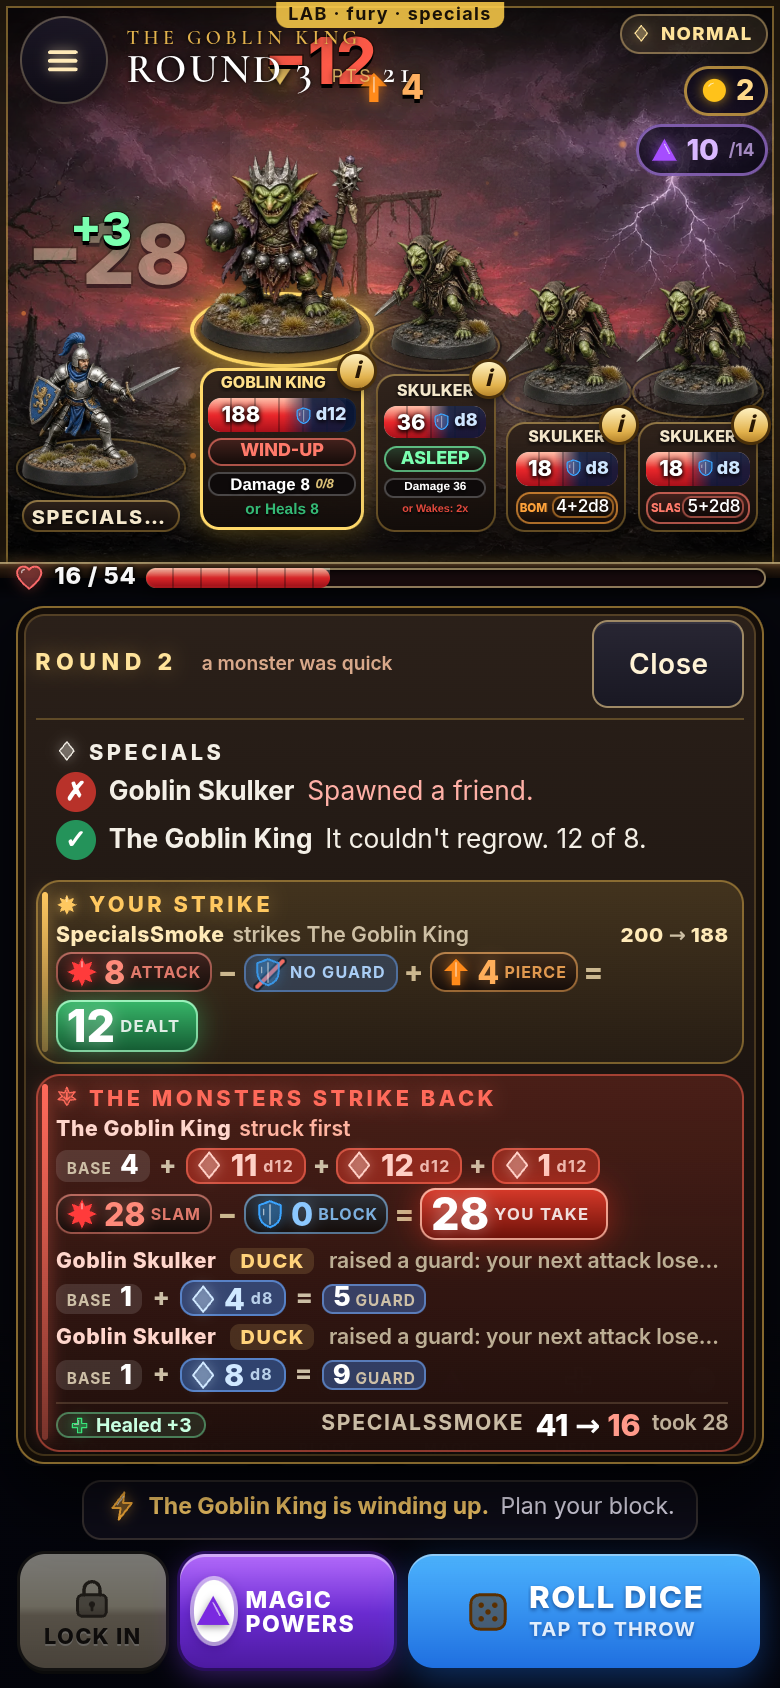
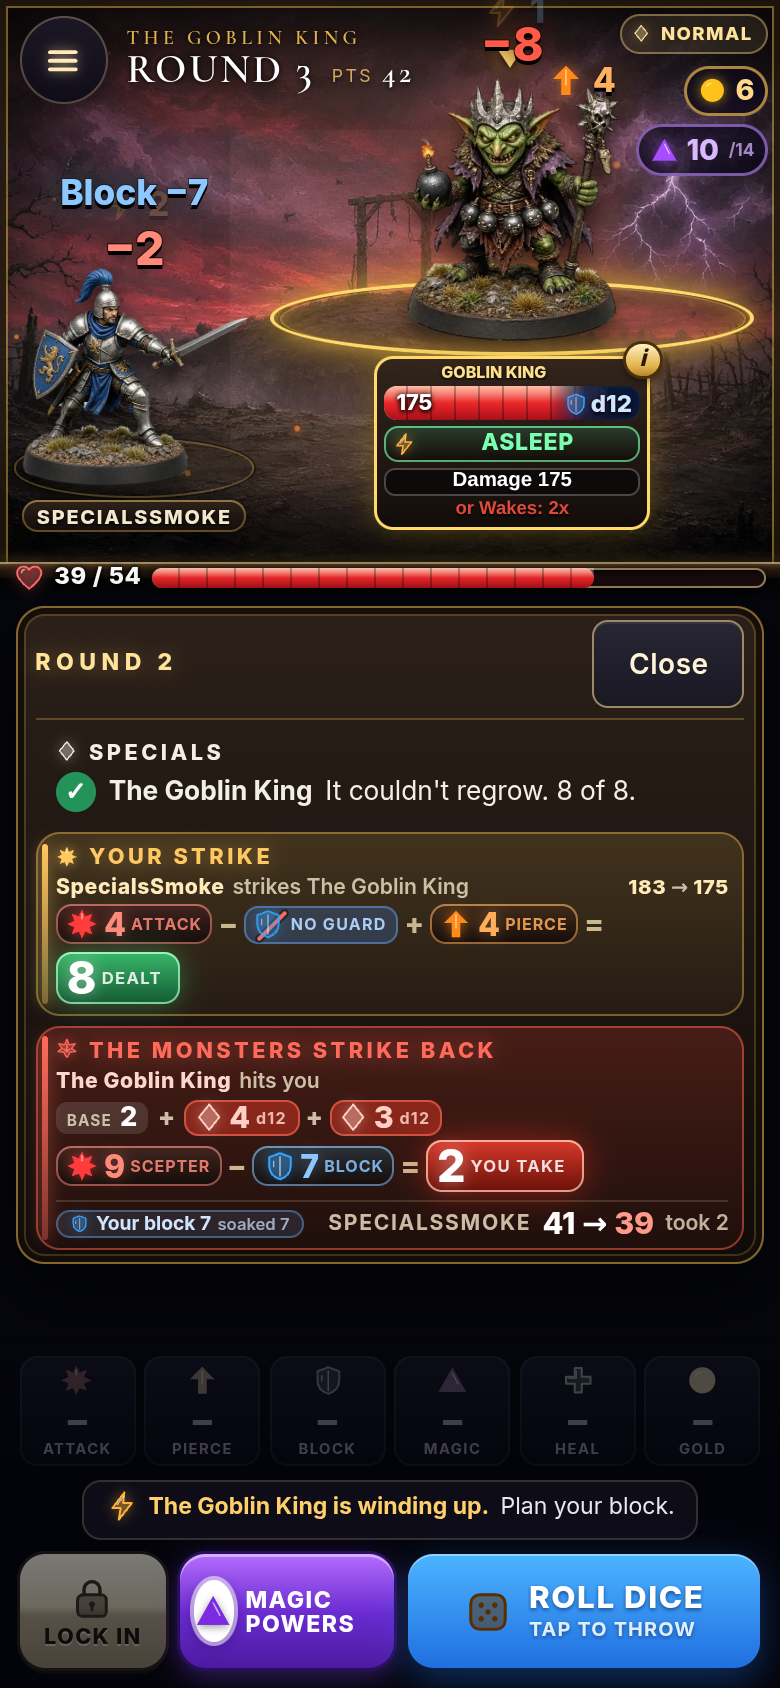
T24: Monster Specials live on main (build 20261102sp3); board note

diff --git a/docs/team/BOARD.md b/docs/team/BOARD.md
@@ -262,7 +262,7 @@ All one-offs above are 25, 50, 100 or 200: Talent One 25, weapon hand 50, Talent
 | T21 | Urgent live playtest | Implementation lead (Claude) | DELIVERED to main, build 20261025t21a (Director: review [results](tasks/T21-results.md), then DONE or follow-ups) | Two-player Normal defeat at Act I step 2, online cards4, report mvo829c812sx. Dav's Bow confirmed equipped but inactive; Dave says both Rangers lacked bows. Round 3 all enemies act first: JP takes 43, Dav 22. Slow reward handoff also reported. [Evidence and approved starter rule](tasks/T21-two-player-playtest.md). **Dave now authorizes both top weapon dice active from the start for EVERY class**, Bronze left class weapon plus right shield; Ranger exception Bronze Arrows + Bow. Keep existing class shield types. T17 mockups remain separate. | Claude: urgent before experimental work. Implement two active d4 starter weapon dice for all classes, remove NE starter unlock charge, preserve existing heroes/gear with idempotent authoritative migration; new Bard gets right Round Shield, Ranger Arrows NW/Bow NE. Fix reward-turn recovery. Audit early two-player scaling and online card coverage; inspect dnull locked-slot export, missing fatal-round totals, empty enemiesLeft on defeat and share prefix. Compare corrected starters before any monster nerf. Checked starter/reward/report fixes may deploy under standing authorization; post build and tests. No hero reset.  **Phone UI follow-up:** make Heart current face, both destination buttons, actual cost/used state and Close visible together without inner scrolling. Full brief and screenshot observations in T21. Verify actual online paths, not solo-only. |
 | T22 | High | Claude: replay/logic. Grok: active visuals. Director: review | READY (replay investigation; visuals already active per Dave) | [Coordination and four-screenshot review](tasks/T22-attack-feedback-and-coordination.md). Dave wants each hero's visible hit and individual monster HP change. Source confirms separate strikes and a shared spent monster block pool; replay cause not reproduced. **Dave reports Grok is actively doing the tilted board, helmet options and new Magic screen**, alongside card work. | Grok: list exact files/branch/head and deliver screenshots; use existing Dave Magic screenshot and T21 before/after evidence, no repeat upload needed. Claude: avoid Grok's active visual/card files; investigate per-hero replay/HP/block feedback in non-overlapping files first. Coordinate handoff before shared Magic/battle file edits. Grok hands off a commit; Claude reruns integration tests without another generic go. Current-rule visuals may ship checked; T17 unresolved mechanics stay isolated. |
 | T23 | High | Director: implementation, tests and evidence; Grok: existing visual direction | REVIEW: isolated candidate in draft PR #50, not live | Rank 2 Act II/200G; rank 3 Act III/300G additional; per-hero boosts, saves, camp authority and duplicate protection implemented on current main. 449 tests pass, 864 diagnostic fights. | Director retains rendering and economy/sustain review before activation. Grok/Claude have no assignment on this candidate. |
-| T24 | Next | Claude (engine) + Grok (visuals); Dave decides | IN ?lab PREVIEW (build 20261102sp1), off live | Monster Specials first set: [tasks/T24-monster-specials.md](tasks/T24-monster-specials.md) | Build behind a switch when Dave says go |
+| T24 | Next | Claude (engine) + Grok (visuals); Dave decides | LIVE (build 20261102sp3); Grok polishing screens | Monster Specials first set: [tasks/T24-monster-specials.md](tasks/T24-monster-specials.md) | Build behind a switch when Dave says go |
 
 ## Previews on main (preview-only, not releases)
 The game at the site root is now build 20261024report6 (it was 20261023road until T18 and T10 were merged on 24 Oct). Each preview has its own saves and no cloud; both share one preview save space on a phone.
@@ -908,3 +908,5 @@ From Grok Bot: 2 November 2026, 9:37 AM CT. **RELEASED** T24 screens (e20deb2, b
 2 November 2026, Claude: **T24 Monster Specials engine IN and connected to Grok's screens, build 20261102sp1.** Off at the live root; **on in the `?lab` preview** (the lab tag reads "LAB · fury · specials"). Six Specials: Slam (wind up, "Damage N or Slam 2x"), Shield ("Attack N", breaks for good), Spawn ("Damage 1 or Spawn 1", at most 3 a fight), Bounty ("Kill in 2, +gold"), Regrow ("Damage N or Heals N") and Sleeping (does nothing; a hit that doesn't kill wakes it, then it hits double). Assigned by act and step: Act I steps 1–2 plain, step 3 a gentle one, step 4 on a Slam, the elite a Shield, the boss Regrow plus a Spawn minion, at most one punishing Special a fight in Act I. Works solo and at a table: the party's attack adds up toward a goal, and a Bounty pays the hero who makes the kill. Grok's two seams are in battle3d.js: `SP.setBattle` and the plan board at round start. The progress bar fills on your target live as you reroll. Tests: test/specials.test.mjs (10); 544 in all. dev/t24-smoke.mjs passes in the real screen (Act I boss: labels, plan board, report lines, a sleeping monster; no page errors; screenshots in tasks/T24/). Measurement: tools/t24-specials.mjs, matched off/on; results to follow. **Grok:** the labels look right under the plaques; please check the plan board and the after-round lines with real data in `?lab`. Numbers are PROPOSED.
 
 2 November 2026, Claude: **T24 tuned from the first measurement, build 20261102sp2 (still `?lab` only).** Matched bots, solo, Normal (tasks/T24-measured.md): ordinary fights stay as winnable with Specials (Act I 98% → 96% wins, +0.1 rounds; Act II 97% → 96%), elites unchanged. Two changes: Slam goals lowered to 15 / 28 / 44 by act (at 20 it was met only a third of the time), and **the Act I boss now fights alone with Regrow**. The extra helper took wins from 93% to 87% by its own blows; Regrow alone costs 1 point. Goal-met rates: Spawn 94%, Sleeping 81%, Shield 68%, Regrow 63%, Bounty 49%. Limits: bots, solo only, 2 campaigns per class; the team game is not yet measured.
+
+2 November 2026, Claude: **T24 Monster Specials LIVE in the main game, build 20261102sp3** (Dave: "I want to not use the lab and do it on main"). `SPECIALS.on` is now set in js/release.js; the lab no longer adds it (its tag is back to "LAB · fury"). 544 tests; dev/t24-smoke.mjs passes on the live root (Act I boss with Regrow, label, plan board, report lines, no page errors). **Grok:** your screens now show for every player on main; carry on polishing, since every push you make is live. Limits: bots measured solo only; no two-phone online run with Specials yet; headless Chromium, not Safari.
